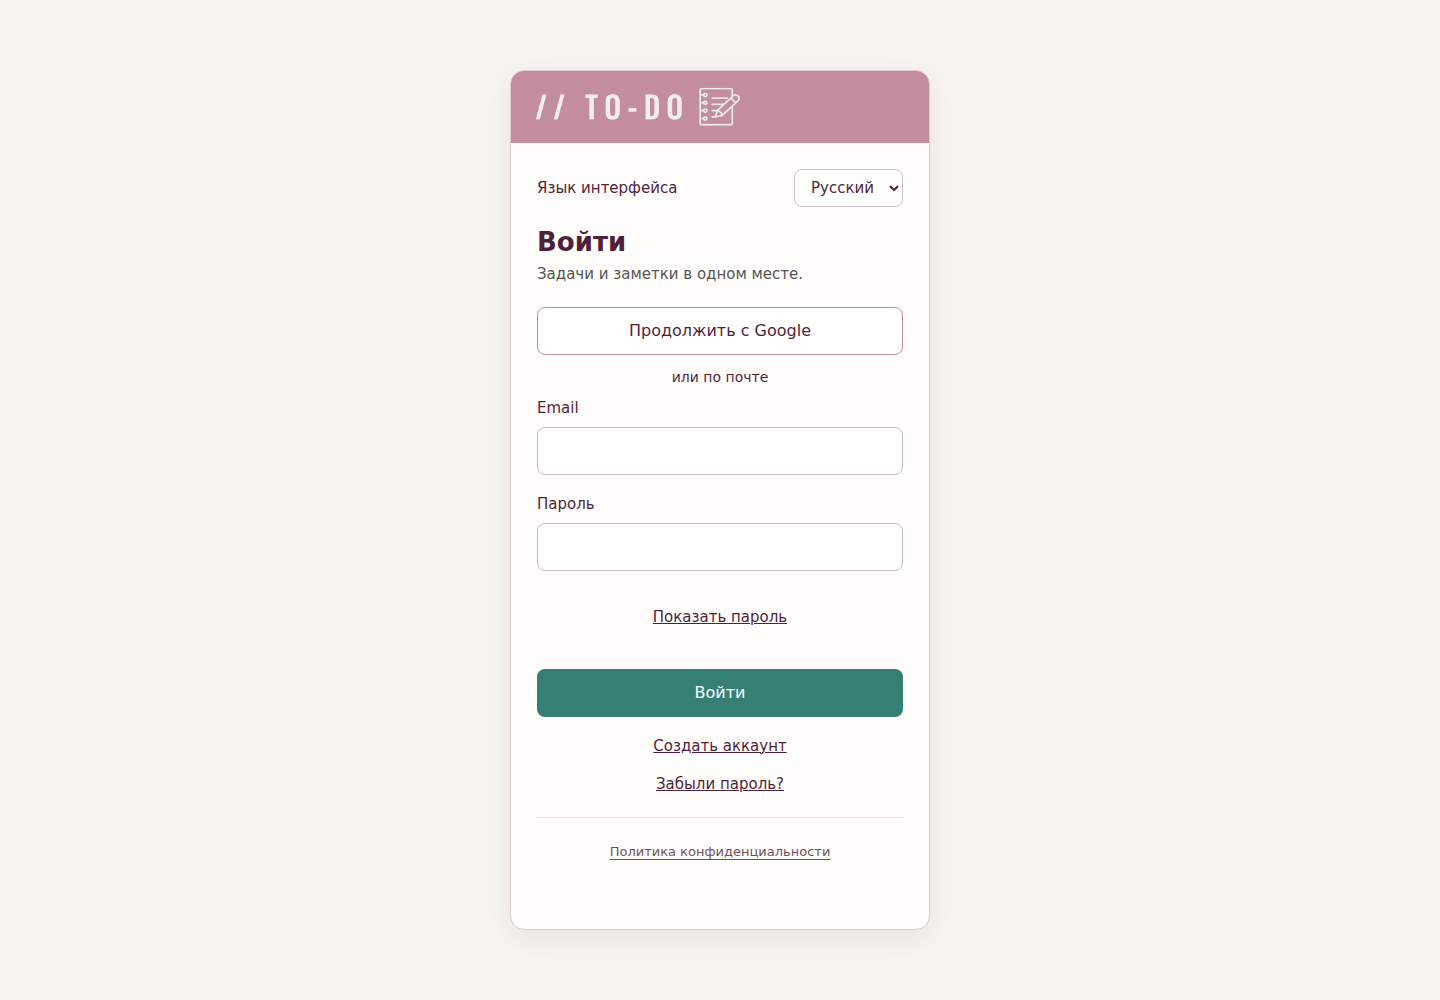
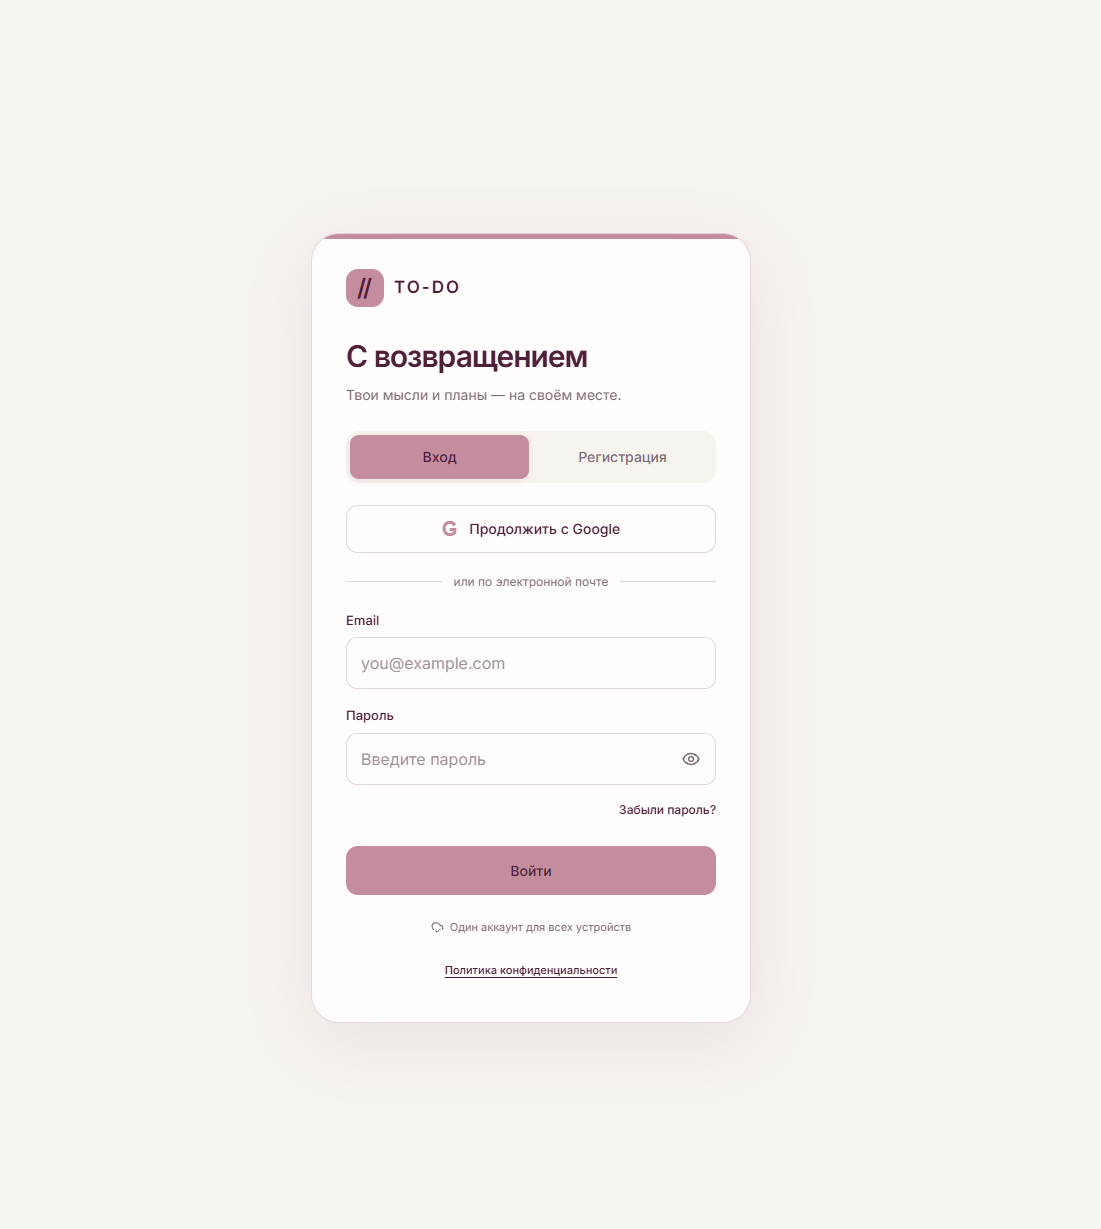
Refresh Tallyn and TO-DO portfolio covers

diff --git a/src/portfolio-v2.css b/src/portfolio-v2.css
@@ -86,15 +86,31 @@ body.portfolio-v2 #root{max-width:none!important;width:100%!important;margin:0!i
 .v2-project-image,.v2-project-image:hover{background:transparent;padding:0;min-height:0;border:0;border-radius:0;box-shadow:none;transition:none}
 .v2-project-image img{width:100%;height:auto;max-height:none;object-fit:contain;border:0;border-radius:0;box-shadow:0 18px 45px #0003;transition:transform .3s ease}
 .v2-project-image:hover img{transform:translateY(-4px)}
+.v2-project-image.v2-project-image--screens,
+.v2-project-image.v2-project-image--portrait {
+  width: 100%;
+  padding: clamp(8px, 1.15vw, 16px);
+  justify-self: center;
+  background: radial-gradient(ellipse at top, #221e2d, #111218 75%);
+  border: 1px solid #d3c7ec25;
+  border-radius: 18px;
+}
 .v2-project-image--screens {
   display: grid;
   grid-template-columns: repeat(2, minmax(0, 1fr));
-  gap: clamp(.5rem, 2vw, 1.25rem);
-  width: 100%;
-  max-width: 500px;
-  justify-self: center;
+  gap: clamp(8px, 1.25vw, 18px);
+  max-width: 596px;
 }
-.v2-project-image--screens img { border-radius: 12px; }
+.v2-project-image--screens img {
+  aspect-ratio: 798 / 1300;
+  background: linear-gradient(#faf5ed 0 95%, #fdf9f1 95%);
+  border-radius: 10px;
+}
+.v2-project-image--portrait { max-width: 454px; }
+.v2-project-image--portrait img {
+  aspect-ratio: 1101 / 1229;
+  border-radius: 10px;
+}
 .portfolio-v2 .v2-project-copy h2{font-size:clamp(1.8rem,2.3vw,2.6rem);font-weight:700;line-height:1.2;margin:0 0 1.7rem;letter-spacing:-.035em}
 .v2-project-subtitle{display:block}
 .v2-project-tag,.v2-stack{display:none!important}

diff --git a/src/App.jsx b/src/App.jsx
@@ -266,14 +266,14 @@ function Projects() {
   return <PageLayout starry><main className="v2-projects v2-container"><h1 className="v2-page-title">Projects</h1>
     <div className="v2-project-list">{selectedProjects.map((project, index) => <article className={`v2-project ${index % 2 ? "v2-project--reverse" : ""}`} key={project.id}>
       <a
-        className={`v2-project-image${project.previews ? " v2-project-image--screens" : ""}`}
+        className={`v2-project-image${project.previews ? " v2-project-image--screens" : ""}${project.id === "todo-personal" ? " v2-project-image--portrait" : ""}`}
         href={project.liveUrl}
         target="_blank"
         rel="noopener noreferrer"
         aria-label={`Open ${project.title} live app`}
       >
-        {project.previews ? project.previews.map(({ src, alt }) => (
-          <img key={src} src={src} alt={alt} width="360" height="740" loading="lazy" />
+        {project.previews ? project.previews.map(({ src, alt, width, height }) => (
+          <img key={src} src={src} alt={alt} width={width} height={height} loading="lazy" />
         )) : (
           <img src={project.id === "iqnix-ptm" ? iqnixLogin : project.image} alt={`${project.title} application preview`} loading="lazy" />
         )}

diff --git a/src/data/projects.js b/src/data/projects.js
@@ -1,7 +1,7 @@
 import todoApp from "../assets/todo-app.png";
 import todoLogin from "../assets/todo-login.png";
-import tallynOverview from "../assets/tallyn-overview.jpg";
-import tallynAccounts from "../assets/tallyn-accounts.jpg";
+import tallynOverview from "../assets/tallyn-overview.png";
+import tallynAnalysis from "../assets/tallyn-analysis.png";
 import geraltHome from "../assets/geralt-home.png";
 import geraltAbout from "../assets/geralt-about.png";
 import geraltGallery from "../assets/geralt-gallery.png";
@@ -243,8 +243,8 @@ export const projectsData = {
       ],
       liveLabel: "Open web app",
       previews: [
-        { src: tallynOverview, alt: "Tallyn balances and monthly overview" },
-        { src: tallynAccounts, alt: "Tallyn account list" },
+        { src: tallynOverview, alt: "Tallyn overview with an N26 card", width: 758, height: 1301 },
+        { src: tallynAnalysis, alt: "Tallyn monthly spending breakdown", width: 798, height: 1299 },
       ],
     },
     {
